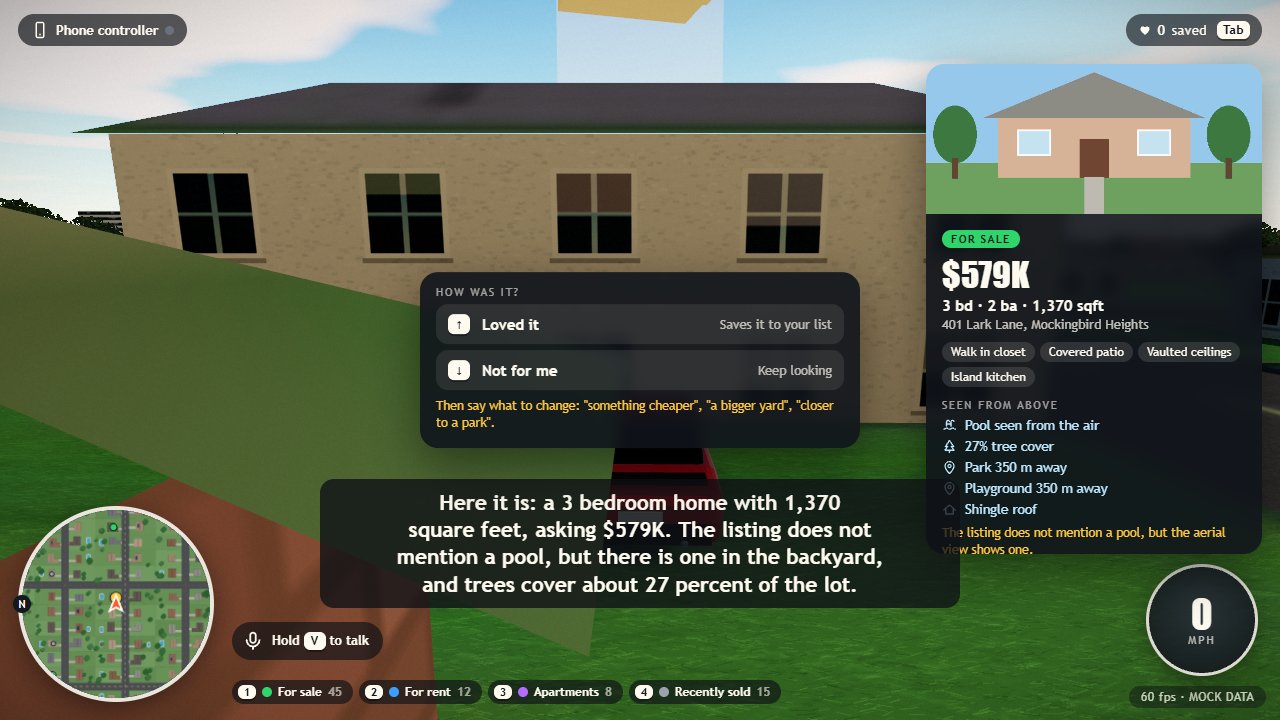
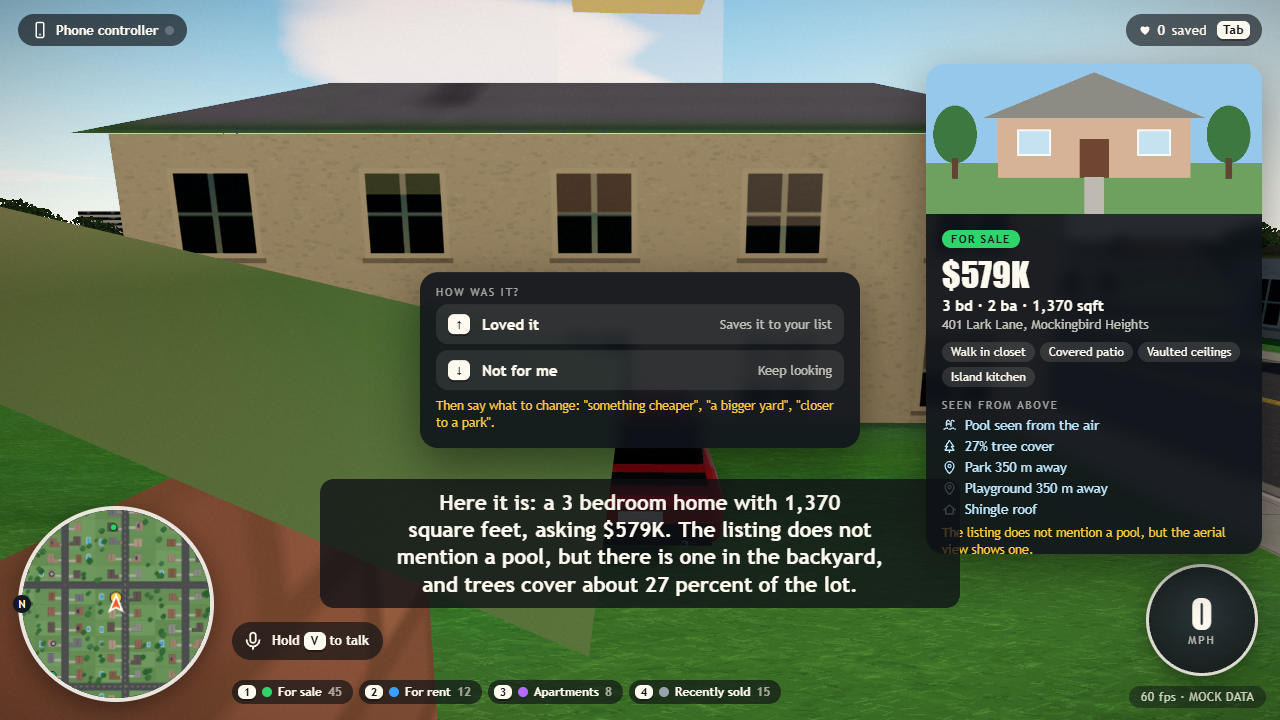
streets traced from the aerial photo: asphalt, lane paint, kerbs, sidewalks; routes, lamps and traffic follow them

diff --git a/src/roads.js b/src/roads.js
@@ -1,0 +1,196 @@
+// Streets traced from the aerial photo. There is no road data, but streets in these
+// neighborhoods are long straight strips of asphalt on a grid, which a parking lot, a driveway
+// or a roof is not. So: find the grid's angle, turn the photo to it, and look along every row
+// and column for long unbroken runs of asphalt colored pixels that no building interrupts.
+// Runs that sit side by side form one street with a center line and a width.
+//
+// The result is baked into a distance map (meters to the edge of the nearest street, to its
+// center line, and to the next street over) that the ground shader turns into asphalt, lane
+// paint, kerbs and sidewalks that stay sharp at any distance.
+import * as THREE from 'three';
+
+const GAP = 16;        // meters of trees, cars or shadow a run may cross
+const MIN_RUN = 110;   // meters: shorter strips are lots and driveways
+const MAP = 2048;
+
+function isAsphalt(r, g, b) {
+  const mx = Math.max(r, g, b), mn = Math.min(r, g, b);
+  if (mx - mn < 30 && mx > 46 && mx < 205) return true;       // gray, mid bright
+  return mx < 95 && mx > 18 && b >= r - 4 && mx - mn < 62;     // the same in shadow
+}
+
+// The street grid runs the way the buildings face: take every wall, weight it by its length,
+// and find the most common direction (walls at right angles count as the same direction).
+function gridAngle(buildings) {
+  const BINS = 360; // quarter degree steps over 90 degrees
+  const hist = new Float32Array(BINS);
+  for (const b of buildings) {
+    const p = b.pts;
+    for (let i = 0; i < p.length; i++) {
+      const q = p[(i + 1) % p.length];
+      const dx = q.x - p[i].x, dz = q.y - p[i].y, len = Math.hypot(dx, dz);
+      if (len < 3) continue;
+      let a = Math.atan2(dz, dx) % (Math.PI / 2);
+      if (a < 0) a += Math.PI / 2;
+      hist[Math.min(BINS - 1, Math.floor((a / (Math.PI / 2)) * BINS))] += len;
+    }
+  }
+  let best = 0, bs = -1;
+  for (let i = 0; i < BINS; i++) {
+    let s = 0;
+    for (let k = -4; k <= 4; k++) s += hist[(i + k + BINS) % BINS] * (5 - Math.abs(k));
+    if (s > bs) { bs = s; best = i; }
+  }
+  let a = ((best + 0.5) / BINS) * (Math.PI / 2);
+  if (a > Math.PI / 4) a -= Math.PI / 2;
+  return a;
+}
+
+// long runs along one direction of the turned photo; get(i, j): i across, j along
+function scan(S, road, hard, alongRows) {
+  const at = alongRows ? (i, j) => i * S + j : (i, j) => j * S + i;
+  const bands = [], open = [];
+  const close = (b) => {
+    const rows = b.runs.length, width = b.last - b.first + 1;
+    if (rows < 4 || rows / width < 0.7) return;
+    const med = (arr) => arr.slice().sort((x, y) => x - y)[Math.floor(arr.length / 2)];
+    const j0 = med(b.runs.map((r) => r[0])), j1 = med(b.runs.map((r) => r[1]));
+    const len = j1 - j0;
+    if (len < MIN_RUN || width > 34 || len / width < 7) return;
+    bands.push({ c: (b.first + b.last + 1) / 2, j0, j1: j1 + 1, width, alongRows });
+  };
+  for (let i = 0; i < S; i++) {
+    const runs = [];
+    let start = -1, last = -1, fill = 0;
+    const end = () => {
+      if (start >= 0 && last - start >= MIN_RUN && fill / (last - start + 1) >= 0.58) runs.push([start, last]);
+      start = -1; fill = 0;
+    };
+    for (let j = 0; j < S; j++) {
+      const k = at(i, j);
+      if (hard[k]) { end(); continue; }
+      if (road[k]) { if (start < 0) start = j; last = j; fill++; } else if (start >= 0 && j - last > GAP) end();
+    }
+    end();
+    for (const r of runs) {
+      let hit = null;
+      for (const b of open) {
+        if (i - b.last > 2 || b.last === i) continue;
+        const inter = Math.min(r[1], b.j1) - Math.max(r[0], b.j0), uni = Math.max(r[1], b.j1) - Math.min(r[0], b.j0);
+        if (inter / uni >= 0.55) { hit = b; break; }
+      }
+      if (hit) { hit.runs.push(r); hit.last = i; hit.j0 = r[0]; hit.j1 = r[1]; } else open.push({ first: i, last: i, j0: r[0], j1: r[1], runs: [r] });
+    }
+    for (let n = open.length - 1; n >= 0; n--) if (i - open[n].last > 2) { close(open[n]); open.splice(n, 1); }
+  }
+  open.forEach(close);
+  return bands;
+}
+
+export function buildRoads({ img, uvAt, G, bounds, buildings }) {
+  const t0 = performance.now();
+  const W = bounds.maxX - bounds.minX, H = bounds.maxZ - bounds.minZ;
+  const cx = (bounds.minX + bounds.maxX) / 2, cz = (bounds.minZ + bounds.maxZ) / 2;
+  const angle = gridAngle(buildings);
+  const cs = Math.cos(angle), sn = Math.sin(angle);
+  const S = Math.min(2600, Math.ceil(Math.hypot(W, H)) + 4);
+  const scale = S / (Math.ceil(Math.hypot(W, H)) + 4); // 1 px per meter unless the area is huge
+
+  // the photo and the building outlines, turned so the grid lies along rows and columns
+  const mk = () => { const c = document.createElement('canvas'); c.width = c.height = S; return c; };
+  const pc = mk(), bc = mk();
+  const pg = pc.getContext('2d', { willReadFrequently: true }), bg = bc.getContext('2d', { willReadFrequently: true });
+  for (const g of [pg, bg]) { g.setTransform(cs * scale, -sn * scale, sn * scale, cs * scale, S / 2, S / 2); g.translate(-cx, -cz); }
+  pg.save();
+  pg.beginPath(); pg.rect(bounds.minX, bounds.minZ, W, H); pg.clip();
+  pg.drawImage(img, G.minX, G.minZ, G.maxX - G.minX, G.maxZ - G.minZ);
+  pg.restore();
+  bg.fillStyle = '#fff';
+  for (const b of buildings) {
+    bg.beginPath();
+    b.pts.forEach((p, i) => (i ? bg.lineTo(p.x, p.y) : bg.moveTo(p.x, p.y)));
+    bg.closePath(); bg.fill();
+  }
+  const pd = pg.getImageData(0, 0, S, S).data, bd = bg.getImageData(0, 0, S, S).data;
+  const road = new Uint8Array(S * S), hard = new Uint8Array(S * S);
+  for (let i = 0; i < S * S; i++) {
+    if (pd[i * 4 + 3] < 200 || bd[i * 4] > 100) { hard[i] = 1; continue; }
+    if (isAsphalt(pd[i * 4], pd[i * 4 + 1], pd[i * 4 + 2])) road[i] = 1;
+  }
+  // one street often comes back as two strips (a row of parked cars or a painted median
+  // splits it): join strips that run side by side
+  const join = (list) => {
+    list.sort((a, b) => a.c - b.c);
+    for (let i = 0; i < list.length; i++) for (let k = i + 1; k < list.length; k++) {
+      const a = list[i], b = list[k];
+      const gap = Math.abs(b.c - a.c) - (a.width + b.width) / 2;
+      const inter = Math.min(a.j1, b.j1) - Math.max(a.j0, b.j0), uni = Math.max(a.j1, b.j1) - Math.min(a.j0, b.j0);
+      if (gap > 5 || inter / uni < 0.5) continue;
+      const lo = Math.min(a.c - a.width / 2, b.c - b.width / 2), hi = Math.max(a.c + a.width / 2, b.c + b.width / 2);
+      if (hi - lo > 40) continue;
+      list[i] = { ...a, c: (lo + hi) / 2, width: hi - lo, j0: Math.min(a.j0, b.j0), j1: Math.max(a.j1, b.j1) };
+      list.splice(k, 1);
+      k = i; // start over against the wider strip
+    }
+    return list;
+  };
+  const across = join(scan(S, road, hard, true)), down = join(scan(S, road, hard, false));
+  // a street that stops just short of a crossing street runs on to its center line
+  const meet = (A, B) => {
+    for (const a of A) for (const b of B) {
+      if (a.c < b.j0 - 6 || a.c > b.j1 + 6) continue;
+      const reach = b.width / 2 + 14;
+      if (Math.abs(a.j0 - b.c) < reach) a.j0 = Math.min(a.j0, b.c);
+      if (Math.abs(a.j1 - b.c) < reach) a.j1 = Math.max(a.j1, b.c);
+    }
+  };
+  meet(across, down); meet(down, across);
+  const bands = [...across, ...down];
+
+  // back to world meters: center line end points and half width
+  const toWorld = (u, v) => { const a = (u - S / 2) / scale, b = (v - S / 2) / scale; return { x: cx + a * cs - b * sn, z: cz + a * sn + b * cs }; };
+  const segments = bands.map((b) => {
+    const p0 = b.alongRows ? toWorld(b.j0, b.c) : toWorld(b.c, b.j0), p1 = b.alongRows ? toWorld(b.j1, b.c) : toWorld(b.c, b.j1);
+    let hw = b.width / scale / 2;
+    if (hw > 10.5) hw -= 3.4; // building to building: the outer strips are sidewalk
+    hw = Math.max(2.6, hw - 0.3);
+    return { x0: p0.x, z0: p0.z, x1: p1.x, z1: p1.z, hw, rows: b.alongRows };
+  });
+  const length = segments.reduce((a, s) => a + Math.hypot(s.x1 - s.x0, s.z1 - s.z0), 0);
+  if (length < 300) return null;
+
+  // distance map: sd to the nearest street edge (negative inside), distance to that street's
+  // center line, sd to the next street, and its half width (negative for column streets)
+  const N = MAP, far = 60;
+  const sd1 = new Float32Array(N * N).fill(far), sd2 = new Float32Array(N * N).fill(far), cd = new Float32Array(N * N).fill(far), hwm = new Float32Array(N * N);
+  const pxm = W / N, pzm = H / N;
+  for (const s of segments) {
+    const dx = s.x1 - s.x0, dz = s.z1 - s.z0, len = Math.hypot(dx, dz), ux = dx / len, uz = dz / len;
+    const mx = (s.x0 + s.x1) / 2, mz = (s.z0 + s.z1) / 2, hl = len / 2, m = s.hw + 14;
+    const c0 = Math.max(0, Math.floor((Math.min(s.x0, s.x1) - m - bounds.minX) / pxm)), c1 = Math.min(N - 1, Math.ceil((Math.max(s.x0, s.x1) + m - bounds.minX) / pxm));
+    const r0 = Math.max(0, Math.floor((Math.min(s.z0, s.z1) - m - bounds.minZ) / pzm)), r1 = Math.min(N - 1, Math.ceil((Math.max(s.z0, s.z1) + m - bounds.minZ) / pzm));
+    for (let r = r0; r <= r1; r++) for (let c = c0; c <= c1; c++) {
+      const x = bounds.minX + (c + 0.5) * pxm - mx, z = bounds.minZ + (r + 0.5) * pzm - mz;
+      // the side of the center line is kept as a sign: a straight ramp through zero survives
+      // the texture filter, a V shaped absolute value does not
+      const al = Math.abs(x * ux + z * uz), pe = -x * uz + z * ux;
+      const qa = al - hl, qp = Math.abs(pe) - s.hw;
+      const d = Math.hypot(Math.max(qa, 0), Math.max(qp, 0)) + Math.min(Math.max(qa, qp), 0);
+      const i = r * N + c;
+      if (d < sd1[i]) { sd2[i] = sd1[i]; sd1[i] = d; cd[i] = qa < 0 ? pe : far; hwm[i] = s.rows ? s.hw : -s.hw; } else if (d < sd2[i]) sd2[i] = d;
+    }
+  }
+  const data = new Uint16Array(N * N * 4);
+  const hf = THREE.DataUtils.toHalfFloat;
+  for (let i = 0; i < N * N; i++) { data[i * 4] = hf(sd1[i]); data[i * 4 + 1] = hf(cd[i]); data[i * 4 + 2] = hf(sd2[i]); data[i * 4 + 3] = hf(hwm[i]); }
+  const texture = new THREE.DataTexture(data, N, N, THREE.RGBAFormat, THREE.HalfFloatType);
+  texture.minFilter = texture.magFilter = THREE.LinearFilter;
+  texture.wrapS = texture.wrapT = THREE.ClampToEdgeWrapping;
+  texture.needsUpdate = true;
+
+  const sdAt = (x, z) => {
+    const c = Math.floor((x - bounds.minX) / pxm), r = Math.floor((z - bounds.minZ) / pzm);
+    return c < 0 || r < 0 || c >= N || r >= N ? far : sd1[r * N + c];
+  };
+  return { segments, texture, angle, length, sdAt, rect: { minX: bounds.minX, minZ: bounds.minZ, w: W, h: H }, ms: Math.round(performance.now() - t0) };
+}

diff --git a/src/worldgfx.js b/src/worldgfx.js
@@ -374,13 +374,18 @@ export function groundMaterial(groundTex) {
   detail.wrapS = detail.wrapT = THREE.RepeatWrapping;
   detail.anisotropy = 8;
   const mat = new THREE.MeshStandardMaterial({ map: groundTex, roughness: 0.94, metalness: 0 });
+  // streets (src/roads.js): a distance map the shader turns into asphalt, paint and kerbs
+  const none = new THREE.DataTexture(new Uint8Array([255, 255, 255, 255]), 1, 1);
+  none.needsUpdate = true;
+  const R = { roadMap: { value: none }, roadRect: { value: new THREE.Vector4(0, 0, 1, 1) }, roadRot: { value: new THREE.Vector2(1, 0) }, roadOn: { value: 0 } };
   mat.onBeforeCompile = (shader) => {
     shader.uniforms.detailMap = { value: detail };
+    Object.assign(shader.uniforms, R);
     shader.vertexShader = shader.vertexShader
       .replace('#include <common>', '#include <common>\nvarying vec2 vGroundXZ;')
       .replace('#include <begin_vertex>', '#include <begin_vertex>\nvGroundXZ = (modelMatrix * vec4(transformed, 1.0)).xz;');
     shader.fragmentShader = shader.fragmentShader
-      .replace('#include <common>', '#include <common>\nuniform sampler2D detailMap;\nvarying vec2 vGroundXZ;\nfloat gRough = 0.0;')
+      .replace('#include <common>', '#include <common>\nuniform sampler2D detailMap;\nuniform sampler2D roadMap;\nuniform vec4 roadRect;\nuniform vec2 roadRot;\nuniform float roadOn;\nvarying vec2 vGroundXZ;\nfloat gRough = 0.0;')
       .replace('#include <map_fragment>', `#include <map_fragment>
         {
           vec3 gc = diffuseColor.rgb;
@@ -410,8 +415,49 @@ export function groundMaterial(groundTex) {
           crisp = mix(crisp, road, gAsphalt);
           diffuseColor.rgb = mix(gc, crisp, gNear);
           gRough = gAsphalt * gNear * (dFine.g - 0.45) * 0.5;
+          vec2 ruv = (vGroundXZ - roadRect.xy) / roadRect.zw;
+          if (roadOn > 0.5 && ruv.x > 0.0 && ruv.x < 1.0 && ruv.y > 0.0 && ruv.y < 1.0) {
+            vec4 rd = texture2D(roadMap, ruv);
+            float sd = rd.r, cdist = abs(rd.g), other = rd.b, hw = abs(rd.a);
+            float aa = clamp(fwidth(sd), 0.008, 2.0);
+            // coordinates along the street grid, for dashes and paving joints
+            vec2 gq = vec2(vGroundXZ.x * roadRot.x + vGroundXZ.y * roadRot.y, -vGroundXZ.x * roadRot.y + vGroundXZ.y * roadRot.x);
+            float along = rd.a > 0.0 ? gq.x : gq.y;
+            float thin = clamp(0.13 / (aa * 1.5), 0.0, 1.0); // thin paint fades instead of flickering far away
+            vec3 conc = vec3(0.4, 0.39, 0.365) * (0.78 + dFine.r * 0.44) * (0.86 + dWide.r * 0.28);
+            vec2 jq = abs(fract(gq / 1.5) - 0.5);
+            float joint = mix(smoothstep(0.004, 0.02, 0.5 - max(jq.x, jq.y)), 1.0, clamp(aa * 6.0, 0.0, 1.0));
+            float walk = smoothstep(0.16 - aa, 0.16 + aa, sd) * (1.0 - smoothstep(1.85 - aa, 1.85 + aa, sd));
+            vec3 col = mix(diffuseColor.rgb, conc * mix(0.6, 1.0, joint), walk * 0.94);
+            float kerb = smoothstep(-aa, aa, sd) * (1.0 - smoothstep(0.16 - aa, 0.16 + aa, sd));
+            col = mix(col, conc * 1.3, kerb);
+            float onRoad = 1.0 - smoothstep(-aa, aa, sd);
+            vec3 asph = vec3(0.1, 0.1, 0.105) * (0.62 + dFine.g * 0.8) * (0.8 + dMid.g * 0.4) * (0.78 + dWide.r * 0.44);
+            asph = mix(asph, conc * 0.7, smoothstep(-0.42 - aa, -0.42 + aa, sd));       // gutter pan
+            asph *= 1.0 - 0.55 * smoothstep(-0.07 - aa, 0.0, sd);                       // shadow under the kerb face
+            float clearOf = smoothstep(0.6, 2.4, other);                                // no paint through a junction
+            float wear = clamp(0.35 + dMid.r * 0.9, 0.0, 1.0) * thin;
+            float lw = 0.065;
+            float dbl = 1.0 - smoothstep(lw, lw + aa, abs(cdist - 0.15));
+            float single = (1.0 - smoothstep(lw, lw + aa, cdist)) * step(0.62, fract(along / 11.0));
+            float yellow = clearOf * (hw >= 5.0 ? dbl : hw >= 3.3 ? single : 0.0);
+            float white = clearOf * step(6.4, hw) * (1.0 - smoothstep(lw, lw + aa, abs(cdist - hw * 0.5))) * step(0.66, fract(along / 12.0));
+            asph = mix(asph, vec3(0.6, 0.42, 0.035), yellow * wear);
+            asph = mix(asph, vec3(0.6), white * wear);
+            col = mix(col, asph, onRoad);
+            diffuseColor.rgb = col;
+            gRough = onRoad * (dFine.g - 0.45) * 0.5;
+          }
         }`)
       .replace('#include <roughnessmap_fragment>', '#include <roughnessmap_fragment>\nroughnessFactor = clamp(roughnessFactor - 0.12 * step(0.0001, abs(gRough)) - gRough, 0.3, 1.0);');
   };
-  return { mat, detail };
+  return {
+    mat, detail,
+    setRoads(roads) {
+      R.roadMap.value = roads.texture;
+      R.roadRect.value.set(roads.rect.minX, roads.rect.minZ, roads.rect.w, roads.rect.h);
+      R.roadRot.value.set(Math.cos(roads.angle), Math.sin(roads.angle));
+      R.roadOn.value = 1;
+    },
+  };
 }

diff --git a/src/world.js b/src/world.js
@@ -4,6 +4,7 @@
 import * as THREE from 'three';
 import { makeProjection } from './geo.js';
 import { dataBase, loadDataJson } from './data.js';
+import { buildRoads } from './roads.js';
 import { facadeMaterials, pitchedRoof, treeGeometry, treeMaterials, foliageTexture, lampGeometry, glowTexture, groundMaterial } from './worldgfx.js';
 
 const WALLS = [0xe6d5b8, 0xd9c7a8, 0xcfd3d6, 0xe9e0cf, 0xd6b99a, 0xbfc8c2, 0xe2cdb9, 0xc9b8a6, 0xf0e6d6, 0xb9aea0];
@@ -331,6 +332,23 @@ export async function createWorld(ctx, city) {
       cost[i] = road ? 1 : 3.2;
     }
   }
+  // ---- streets traced from the photo: they get real surfaces, and routes, traffic, lamps
+  // and the spawn point use them instead of "anything gray"
+  let roads = null;
+  if (!ctx.params.has('noroads')) {
+    try { roads = buildRoads({ img, uvAt, G, bounds, buildings }); } catch (e) { console.warn('[roads]', e.message); }
+  }
+  if (roads) {
+    groundLook.setRoads(roads);
+    disposables.push(roads.texture);
+    for (let r = 0; r < rows; r++) for (let c = 0; c < cols; c++) {
+      const i = r * cols + c;
+      const sd = roads.sdAt(bounds.minX + (c + 0.5) * CELL, bounds.minZ + (r + 0.5) * CELL);
+      cost[i] = sd < -1 ? 1 : cost[i] <= 1 ? 1.9 : 4;
+    }
+  }
+  window.__gpa.roads = roads ? { streets: roads.segments.length, meters: Math.round(roads.length), angle: +((roads.angle * 180) / Math.PI).toFixed(1), ms: roads.ms } : null;
+
   // connected areas of free cells: routes and spawns stay in the largest one, so a courtyard
   // or a gap sealed off by buildings is never chosen as a start or a goal
   const comp = new Int32Array(cols * rows);
@@ -430,7 +448,7 @@ export async function createWorld(ctx, city) {
   let lastNight = -1;
 
   const world = {
-    city, area, proj, bounds, group, buildings, listings, commercial, nearby, base, mini, G, uvAt,
+    city, area, proj, bounds, group, buildings, listings, commercial, nearby, base, mini, G, uvAt, roads,
     heightAt, buildingAt, nearBuildings, pointIn, isFree, findSpawn,
     grid: { cols, rows, cell: CELL, blocked, cost, comp, mainComp },
     listingByBuilding,

diff --git a/src/traffic.js b/src/traffic.js
@@ -67,7 +67,15 @@ export function initTraffic(ctx) {
       const r = c.route;
       while (c.i < r.length - 1 && Math.hypot(r[c.i].x - c.x, r[c.i].z - c.z) < 7) c.i++;
       if (c.i >= r.length - 1) { c.route = null; continue; }
-      const t = r[Math.min(r.length - 1, c.i + 1)];
+      const t0 = r[c.i], t1 = r[Math.min(r.length - 1, c.i + 1)];
+      // keep right: aim beside the route, as far as the street is wide
+      let tx = t1.x, tz = t1.z;
+      if (world.roads) {
+        const lx = t1.x - t0.x, lz = t1.z - t0.z, ll = Math.hypot(lx, lz) || 1;
+        const off = THREE.MathUtils.clamp(-world.roads.sdAt(t1.x, t1.z) - 1.4, 0, 1.9);
+        tx += (-lz / ll) * off; tz += (lx / ll) * off;
+      }
+      const t = { x: tx, z: tz };
       const want = Math.atan2(-(t.x - c.x), -(t.z - c.z));
       const err = wrap(want - c.heading);
       c.heading += THREE.MathUtils.clamp(err, -1.6 * dt, 1.6 * dt) * Math.min(1, c.speed / 2 + 0.3);

diff --git a/DECISIONS.md b/DECISIONS.md
@@ -72,7 +72,12 @@
 - Sky reflections are kept weak on matte surfaces on purpose: at full strength the blue sky turned every shadow bright blue.
 - Screen space ambient occlusion was left out: it renders the scene twice and puts halos on the listing markers; shadows plus the baked aerial shading carry it.
 - Buildings: houses get sloped roofs with eaves built from the footprint (the aerial photo stays on the roof); other buildings get parapets. Five facade materials with glass that mirrors the sky. Roof shapes are approximations, not the real ridge lines.
-- Ground: there is still no road data. Near the camera the shader reads the aerial photo (dark gray = asphalt, green = planting) and lays a sharp material over it. Lane lines and kerbs are only what the photo shows.
+- Streets (`src/roads.js`): there is still no road data, so streets are traced from the aerial photo when a city loads (about half a second). The grid angle comes from the building walls; the photo is turned to it and every row and column is searched for runs of asphalt colored pixels at least 110 m long that no building interrupts. Side by side runs form one street with a center line and a width. Houston: 184 segments, LA: 156 (grid at 38 degrees), mock: 58.
+- The streets are baked into a distance map and drawn by the ground shader: clean asphalt (the cars and shadows baked into the photo disappear from the roadway), a gutter, a kerb, a sidewalk with paving joints, and paint by width (double yellow on wide streets, a dashed yellow line on medium ones, dashed white lane lines on the widest, none on narrow ones). Paint stops at junctions. No crosswalks or stop lines.
+- Kerbs are drawn, not raised: the ground is still one flat surface, so the car does not bump over them.
+- Only straight streets on the grid are found. Curved roads, freeway ramps and anything shorter than 110 m keep the photo, and a long straight parking aisle can be mistaken for a street. Building to building strips wider than 21 m are treated as roadway plus sidewalks.
+- Routes, the spawn point, street lamps and traffic now use the traced streets instead of "anything gray". Traffic keeps to the right of the route. `?noroads` turns the tracing off.
+- Off the streets, near the camera, the shader still reads the photo (dark gray = asphalt, green = planting) and lays a sharp material over it.
 - Trees are leaf cards with dappled shadows; street lamps stand where road meets non road; 9 ambient cars drive the same routes the gold line uses. No pedestrians (no character art to make them from).
 - Walk inside is now free walking (WASD) by default. The scan API offers a 50k triangle mesh per home (geometry only, no textures), so the game projects the panorama photos onto it from the two nearest scan points, with a visibility test so photos do not land on surfaces that scan point could not see. Close to a scan point it matches the photo tour; between points, surfaces neither point saw are smeared. `T` still switches to the Matterport Showcase and to the photo spots.
 - Walk mode data: `python tools/build_mesh.py --city <city>` (local only script in `tools/sponsor/`). 16 panoramas per home instead of 8. Houston 40 of 47 scans and LA 49 of 65 have a mesh; the rest fall back to the Showcase or photo spots. Mock mode has no meshes and keeps the photo spots.

diff --git a/MORNING.md b/MORNING.md
@@ -64,14 +64,15 @@ Keys in the game: WASD drive, Space handbrake, Shift boost, C top view, L time o
 
 - **Look:** physical sky with clouds, sun shadows, sky reflections in glass and car paint, bloom and a film grade; midday, golden hour and night (`L`). Sloped roofs, five facade types, leafy trees with dappled shadows, street lamps, a new car model, 9 traffic cars. Holds 60 fps on this laptop in Houston, LA and mock.
 - **Walk freely inside:** `E` now drops you into the home on foot. WASD walks, walls and furniture stop you, stairs work. It uses the scan's 3D mesh with the real photos projected on it. Houston: 40 of 47 scans; LA: 49 of 65. `python tools/build_mesh.py --city houston` rebuilds that data (inside the event window only).
-- **Not GTA 5:** roads are still the aerial photo (no painted lane lines, kerbs or sidewalks as geometry), there are no pedestrians, and buildings are textured boxes with roofs. Inside homes, surfaces that no scan point saw look smeared when you walk far from the scan points.
+- **Streets:** traced from the aerial photo at load: asphalt, double yellow or dashed lines by street width, gutters, kerbs and sidewalks, in Houston, LA and mock. Kerbs are drawn flat (no bump), and there are no crosswalks.
+- **Not GTA 5:** there are no pedestrians, buildings are textured boxes with roofs, and curved roads still show the photo. Inside homes, surfaces that no scan point saw look smeared when you walk far from the scan points.
 
 ## What is mocked or limited
 
 - **Mock mode** (`?mode=mock` or `GAME_MODE=mock`) is fully synthetic: 1,389 invented buildings, 80 invented listings, 4 drawn interiors. `docs/mock_shots/` (used by the README and for Devpost) was made this way, with the QR panel hidden.
 - **Listing photos are not cached.** The photo hosts refused scripted downloads (403), and I did not try to get around that. The browser can load them directly (it did in my runs), and when it cannot, cards show a still from the home's own 3D scan and the aerial photos instead.
 - **No rentals in either box** (the picked areas have homes for sale, sold homes and apartment communities). "For rent" shows 0; rent questions land on apartment communities.
-- **No road data.** Routes come from the building outlines plus "looks like asphalt" in the aerial photo. The gold line sometimes cuts across a parking lot or between buildings.
+- **Streets are traced from the photo, not from road data.** Straight streets on the grid get real asphalt, lane paint, kerbs and sidewalks, and routes follow them. Curved roads and short stubs keep the photo, and a long straight parking aisle is sometimes drawn as a street.
 - **Houses are boxes** with photo roofs and a simple window texture. No pitched roof geometry.
 - **Own viewer has 8 scan positions per home** (the Showcase has all of them). Many of these homes were scanned empty, so "See it empty" often looks the same as the furnished view.
 - **LA has only 8 homes** in the box; it is mostly apartment towers. Houston is the better demo city.
